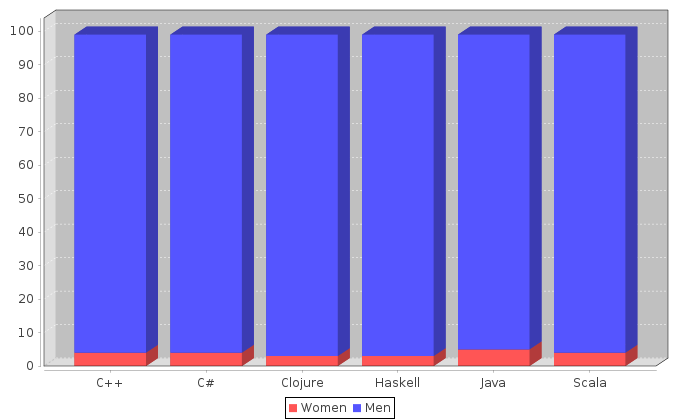
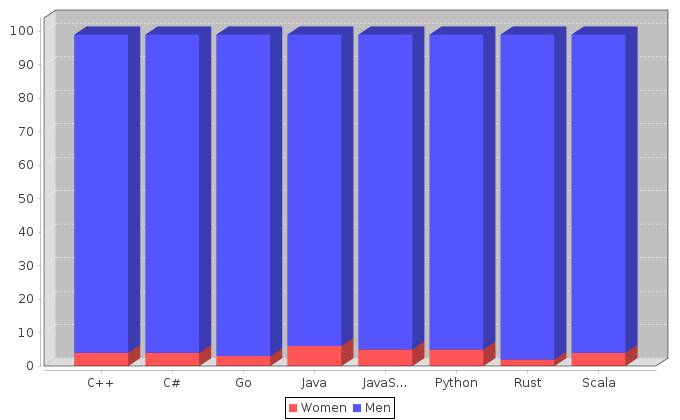
move data storage directory

diff --git a/genderlanguageparser.js b/genderlanguageparser.js
@@ -1,5 +1,5 @@
 let fs = require('fs')
-let data = require('./src/main/resources/data')
+let data = require('./data/rawdata')
 
 const countedData = data
     .filter(x => x.tech_do)
@@ -12,6 +12,17 @@ const countedData = data
     }).reduce((acc, item) => {
 
         item.tech_do.forEach(tech => {
+            if (!acc[tech]) {
+                acc[tech] = { male: 0 , female: 0 }
+            }
+            if (item.gender) {
+                if (item.gender.toLowerCase() == "male" || item.gender.toLowerCase() == "female") {
+                    acc[tech][item.gender.toLowerCase()] += 1
+                }
+            }
+        })
+
+        item.tech_want.forEach(tech => {
             if (!acc[tech]) {
                 acc[tech] = { male: 0 , female: 0 }
             }
@@ -44,7 +55,7 @@ const csvdata = filteredArray.map(x => {
 
 console.log(csvdata)
 
-fs.writeFile('./src/main/resources/genderlang.csv', csvdata.join('\n'), (err) => {
+fs.writeFile('./data/genderlang.csv', csvdata.join('\n'), (err) => {
    if (err) throw err
    console.log("File saved")
 })
